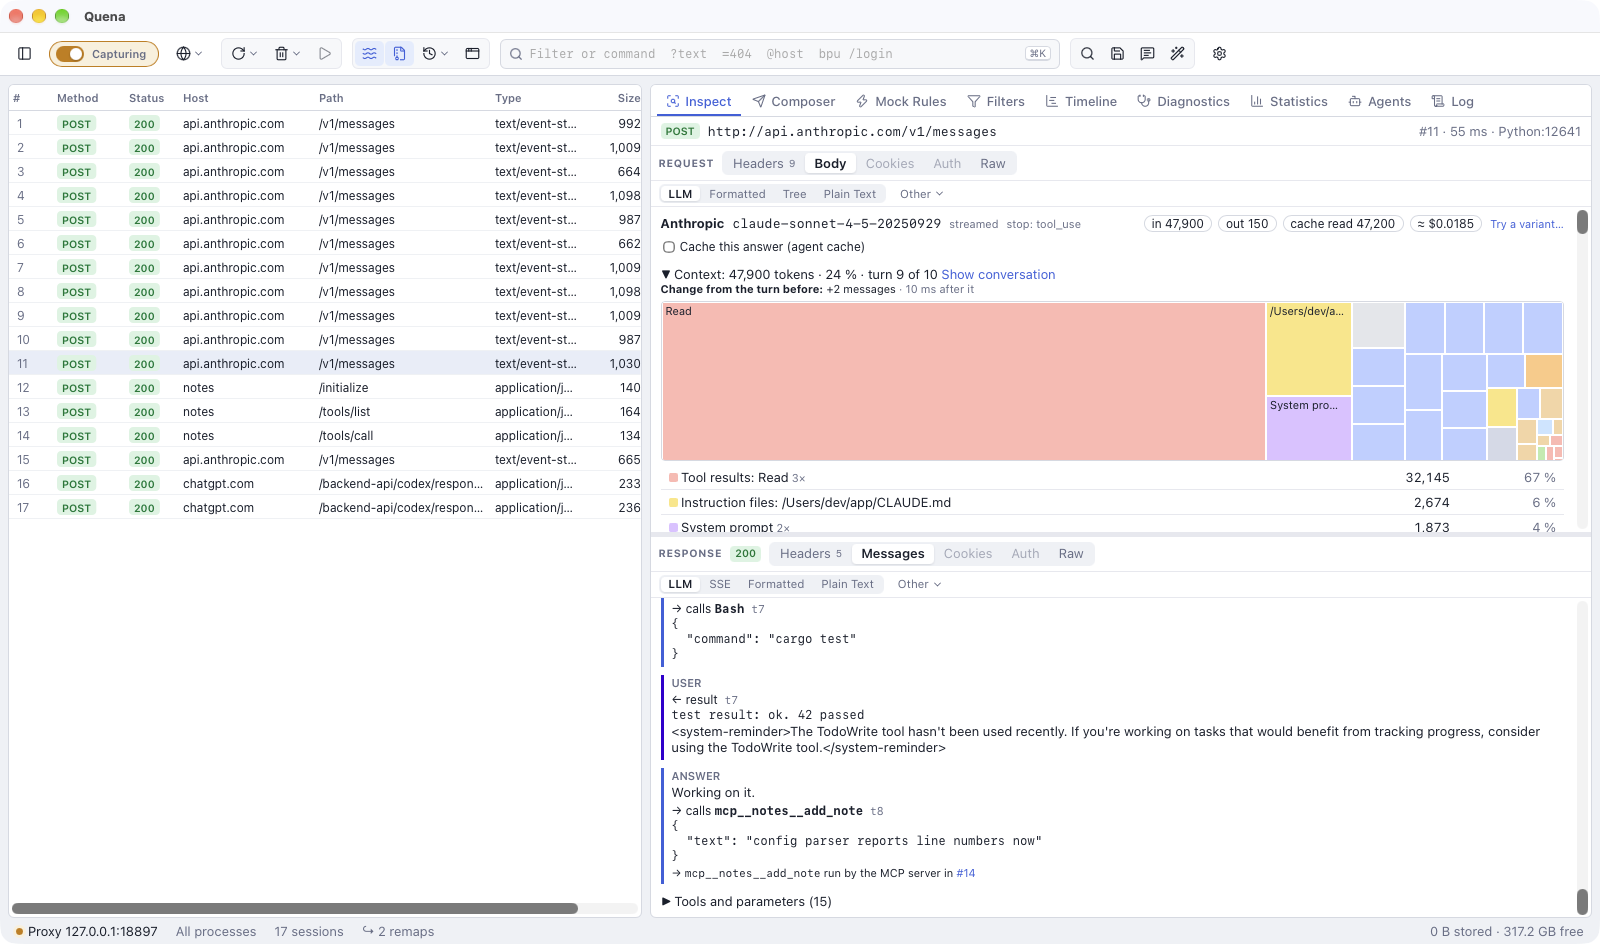
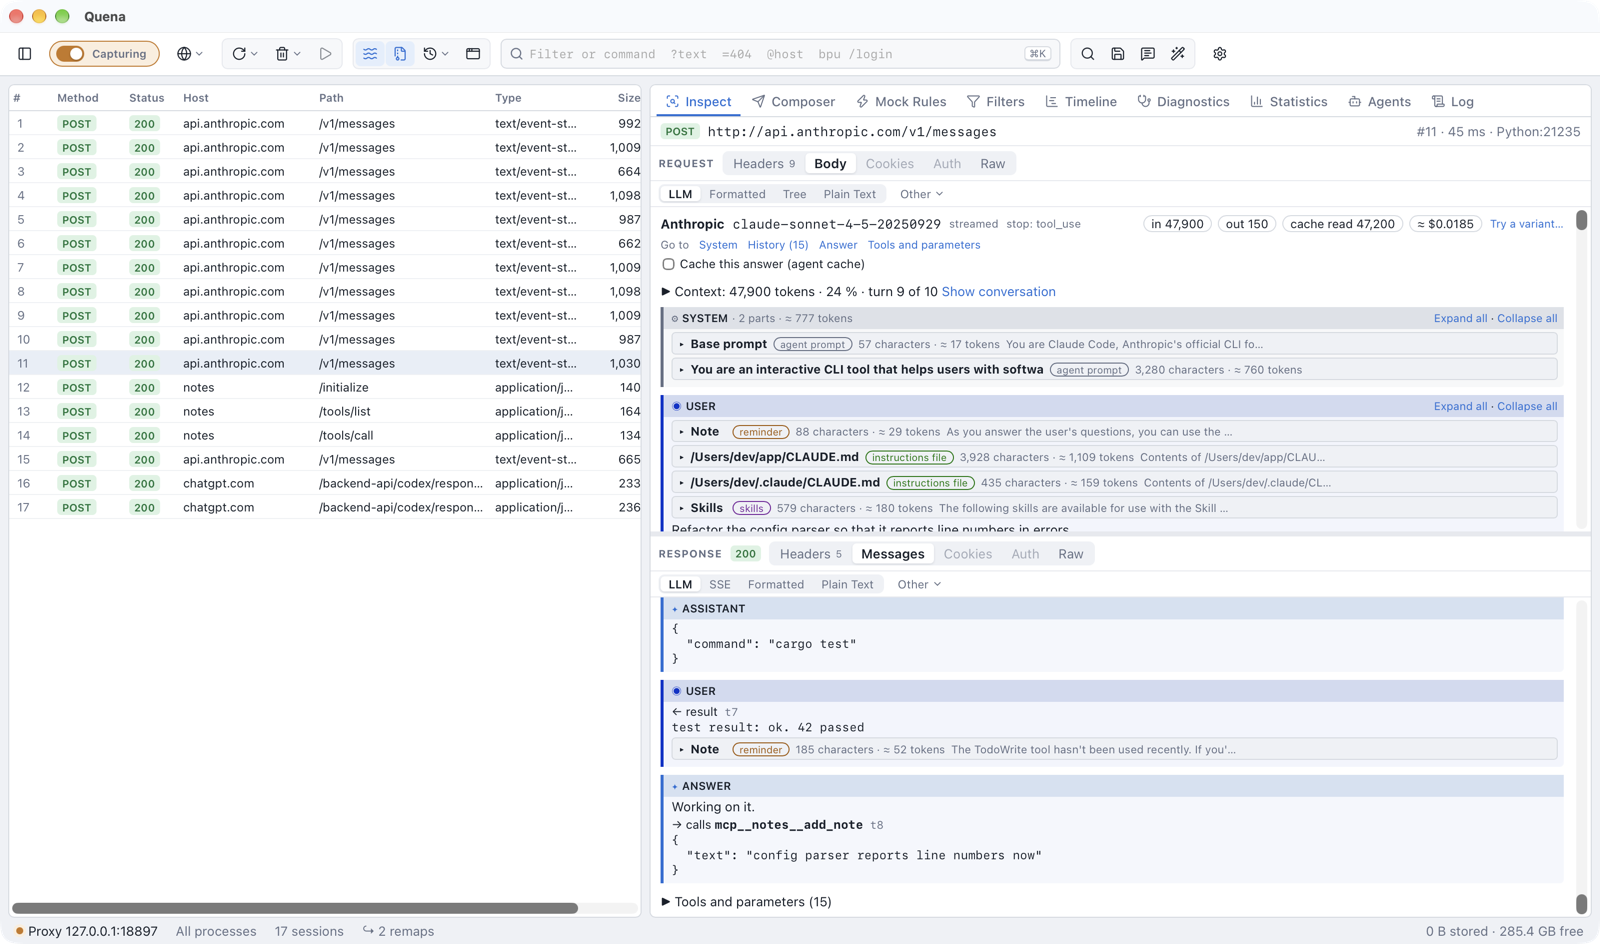
Manual: screenshot of the LLM view with the prompt's titled parts
Claude-Session: https://claude.ai/code/session_01G2dnJmtF4MHMZhZmU7UFiq

diff --git a/manual/docs/llm.md b/manual/docs/llm.md
@@ -56,7 +56,7 @@ provider's own model.
 
 ## The LLM view
 
-![The LLM view of a Claude Code call: model, tokens and estimated cost, the context map (three Read results fill two thirds of it), and the answer with its MCP tool call, run by the MCP server in session 14](img/llm-view.png)
+![The LLM view of a Claude Code call: model, tokens and estimated cost, links to its parts, the system prompt and the first message taken apart into titled parts (base prompt, reminder, instruction files, skills), and the answer with its MCP tool call](img/llm-view.png)
 
 Selecting such a session opens the **LLM** view (on both the request and the response
 side):
